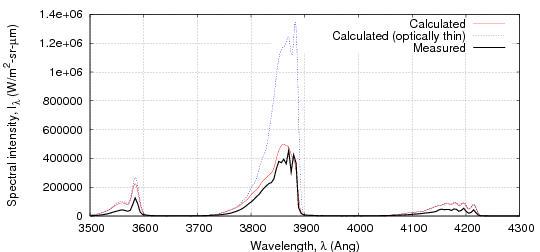
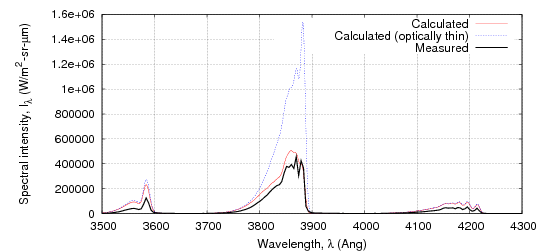
lib/radiation2/source/parade.cxx:  - minor changes to avoid compilation warnings relating to    calls to system() and chdir()
lib/radiation2/source/spectra_pieces.cxx:
 - modified SpectralIntensity::apply_apparatus_function()
   to allow the resulting spectra to be reduced in size

examples/photaura/VKI-minitorch/TC4-radiators.py:
 - increased spectral resolution by an order of magnitude

examples/photaura/VKI-minitorch/TC4-validation.py:
 - made use of new SpectralIntensity::apply_apparatus_function()
   capabilities to reduce convolved spectra by two orders of magnitude
   and thus dramatically reducing the calculation time without
   any visual difference in the results

diff --git a/examples/photaura/VKI-minitorch/TC4-validation.py b/examples/photaura/VKI-minitorch/TC4-validation.py
@@ -54,9 +54,11 @@ def main():
     rsm = create_radiation_spectral_model("TC4-radiators.lua")
     
     # calculation control parameters
+    HWHM = 11 / 2
+    print "Using a spectrometer HWHM of %0.2f Angstroms" % HWHM
+    nu_skip = 100
     do_LOS_integration = True
     extract_emissivities = True
-    HWHM = 11.0 / 2
     n_slabs = 5 # there are approximately 110 temperature data points, so 110 should be the maximum value used here
     x_list= [ 1.24e-3, 3.82e-3, 8.43e-3 ] # list of locations to extract the emissivities at
 
@@ -142,8 +144,10 @@ def main():
         print "\nperforming spatial integration through plasma torch..."
         I_total = Plasma.integrate_LOS(S)
     
+        # make a copy
+        S_copy = SpectralIntensity(S)
         # apply apparatus function
-        S.apply_apparatus_function( HWHM )
+        S.apply_apparatus_function( HWHM, nu_skip )
     
         # write to file
         outfile = "plasma-transported-intensity.txt"
@@ -151,20 +155,20 @@ def main():
         print "I_total after plasma transport = %0.3e W/m**2-sr" % ( I_total )
         
         # compute 'optically thin' intensity
-        for inu in range(S.nu.size()):
-            S.I_nu[inu] = 0.0
+        for inu in range(S_copy.nu.size()):
+            S_copy.I_nu[inu] = 0.0
         for islb in range(n_slabs):
-            for inu in range(S.nu.size()):
-                S.I_nu[inu] += Plasma.get_rpoint_pointer(islb).X_.j_nu[inu] * slab_width
+            for inu in range(S_copy.nu.size()):
+                S_copy.I_nu[inu] += Plasma.get_rpoint_pointer(islb).X_.j_nu[inu] * slab_width
         # apply apparatus function
-        S.apply_apparatus_function( HWHM )
+        S_copy.apply_apparatus_function( HWHM, nu_skip )
         # write to file
         outfile = "plasma-transported-intensity-optically-thin.txt"
-        I_total = S.write_to_file( outfile )
+        I_total = S_copy.write_to_file( outfile )
         print "I_total after plasma transport (optically thin) = %0.3e W/m**2-sr" % ( I_total )
         
         # clean up some c++ data structures
-        del S
+        del S, S_copy
         for divq in divqs:
             delete_doublep( divq )
     
@@ -192,9 +196,17 @@ def main():
             S = SpectralIntensity(rsm)
             for inu in range(S.nu.size()):
                 S.I_nu[inu] = X.j_nu[inu]
-            S.apply_apparatus_function( HWHM )
+            S.apply_apparatus_function( HWHM, nu_skip )
+            X.nu.resize(S.nu.size())
+            X.j_nu.resize(S.nu.size())
+            X.kappa_nu.resize(S.nu.size())
+            X.j_int.resize(S.nu.size())
             for inu in range(S.nu.size()):
+                X.nu[inu] = S.nu[inu]
                 X.j_nu[inu] = S.I_nu[inu]
+                X.kappa_nu[inu] = 0.0
+                X.j_int[inu] = 0.0
+            X.integrate_emission_spectra()
             # write to file
             X.write_to_file("emissivities_at_%d_microns.txt" % int(x*1000000) )
             del X,S

diff --git a/examples/photaura/VKI-minitorch/TC4-radiators.py b/examples/photaura/VKI-minitorch/TC4-radiators.py
@@ -4,7 +4,7 @@
 gdata.spectral_model = "photaura"
 gdata.lambda_min = 190.0
 gdata.lambda_max = 1010.0
-gdata.spectral_points = 82001
+gdata.spectral_points = 820001
 
 # species list
 species = [ "HCN", "C2", "C", "N2",  "N",  "CH",  "H",  "CN", "CH4", "CH3", "CH2", "NH", "H2", "CN+", "N+", "N2+", "C+", "H+", "e-"  ]
